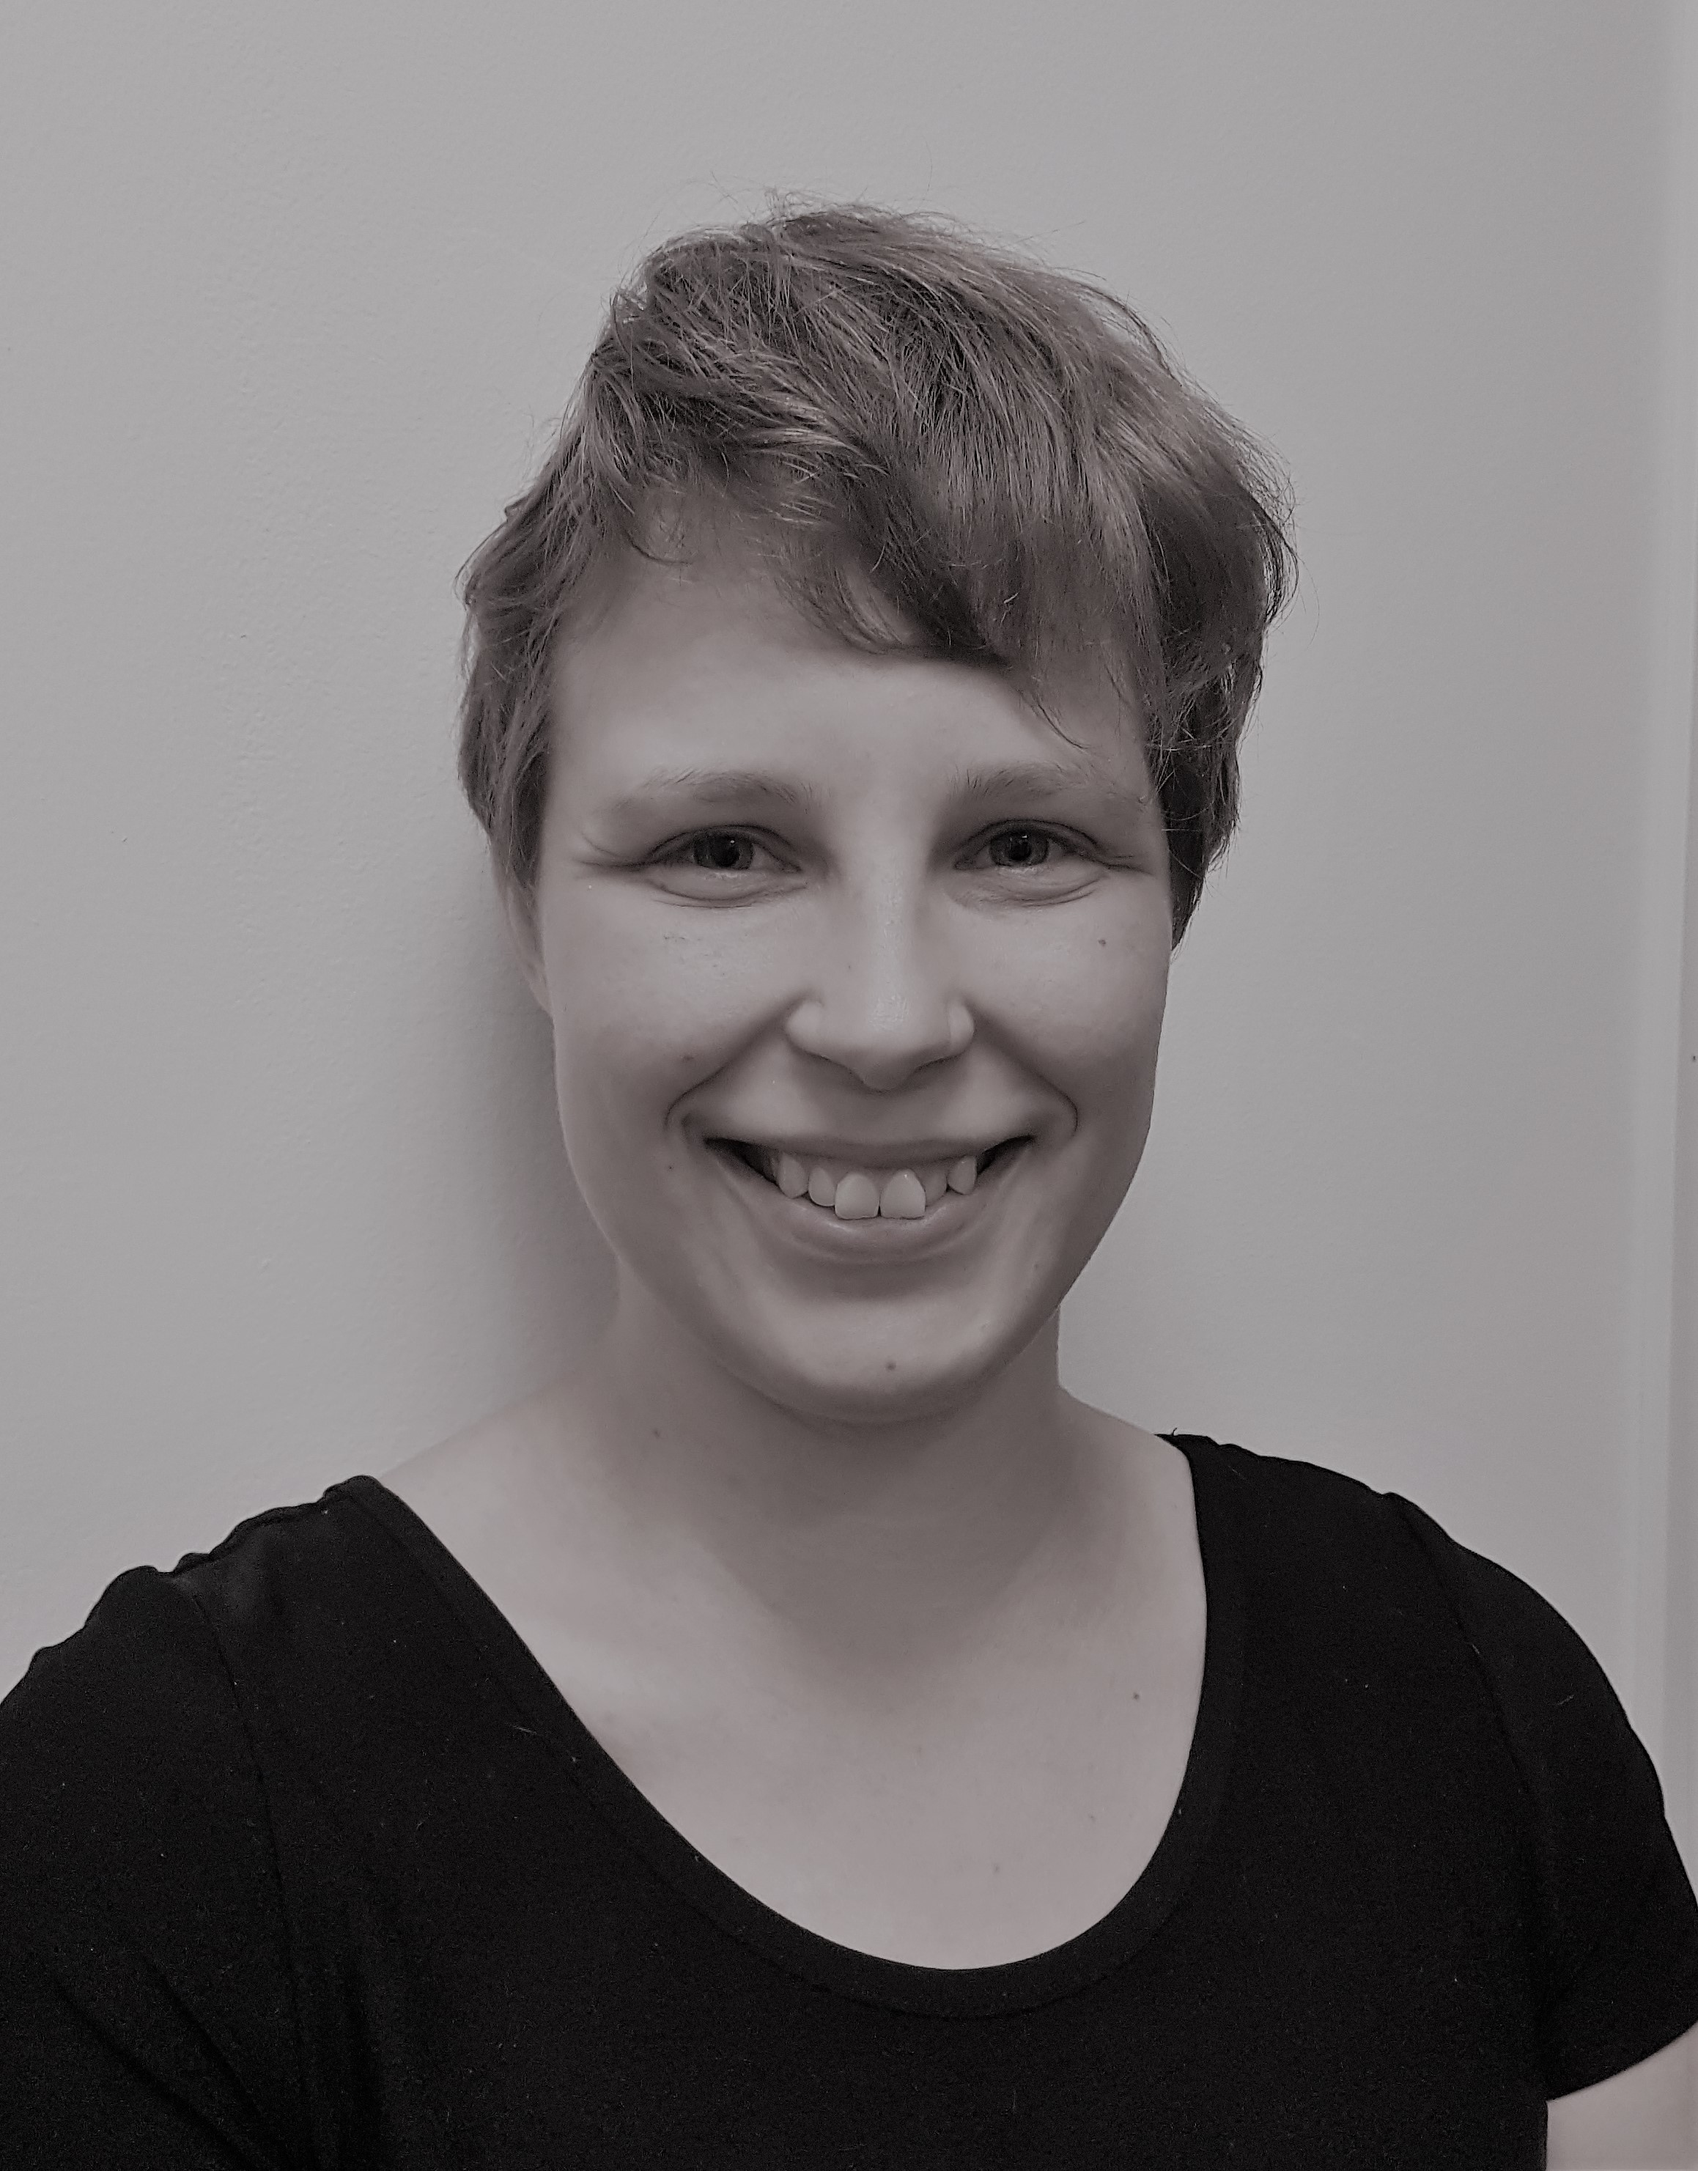
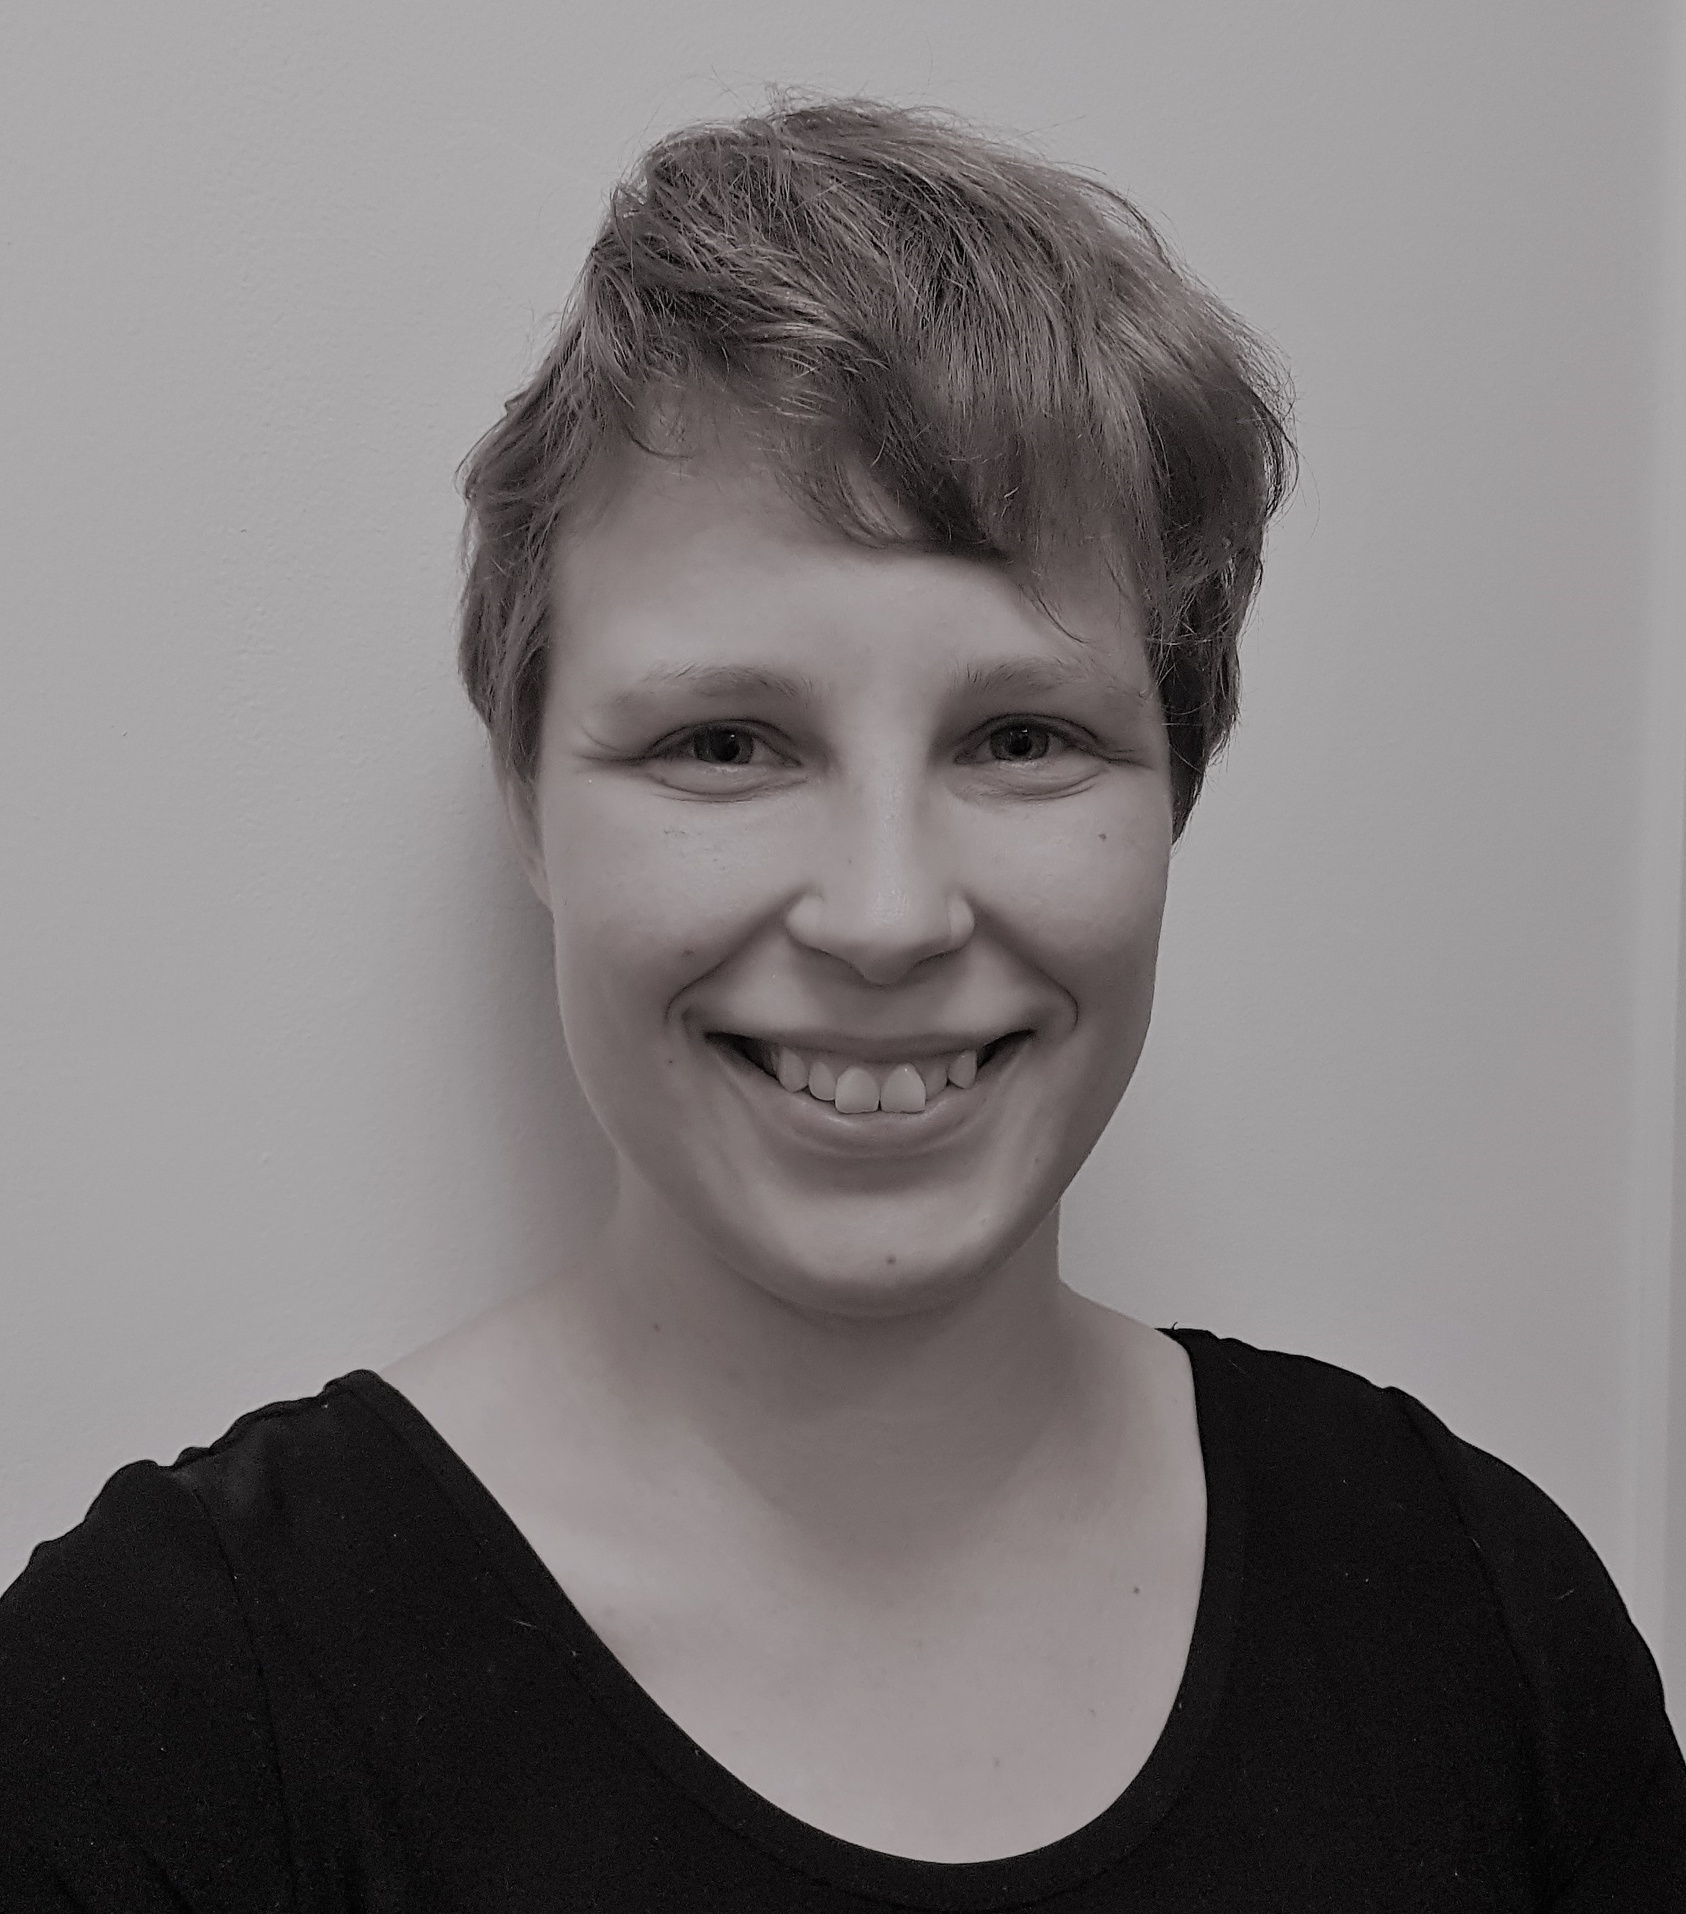
Päivitetty työkokemusta

diff --git a/osaaminen.html b/osaaminen.html
@@ -9,7 +9,7 @@
       <h1>Portfolio <br>Siina <br>Kaakinen</h1>
       <nav>
         <button class="nav_button top_nav"><a class="nav_link" href="./mina.html">Tietoja minusta</a></button>
-        <button class="nav_button hovered_nav"><a class="nav_link" href="./osaaminen.html">Osaaminen</a></button>
+        <button class="nav_button hovered_nav"><a class="nav_link" href="./osaaminen.html">Kokemus</a></button>
         <button class="nav_button"><a class="nav_link" href="./webska.html">Web-sovelluskehitys</a></button>
         <button class="nav_button"><a class="nav_link" href="./muu.html">Muu kokemus</a></button>
       </nav>
@@ -20,26 +20,70 @@
       </div>
     </div>
 
-    <div class="grid-container2">
-      <div class="info1"><h3>Ohjelmointikielet</h3>
-      <p>HTML & CSS <a id="video" href="https://youtu.be/1qlYvXb7XpQ" target="_blank">(video)</a><br>
-        JavaScript <br>
-        C++ <br>
-      C# </p></div>
+    <div class="container3">
+      <h2>Ohjelmointityökokemus</h2>
+      <div class="tyokokemus">
+      <table style="width:100%">
+        <tr>
+          <th>Firma/Projekti</th>
+          <th>Tehtävän kuva/rooli</th>
+        </tr>
+        <tr>
+          <td class="nimitieto">MeLearn-sovellus (projekti)</td>
+          <td>Käyttöliittymäkehittäjä, käyttöliittymäsuunnittelu ja käyttäjätestaus</td>
+        </tr>
+        <tr>
+          <td class="nimitieto">Visma Public Oy</td>
+          <td>Käyttöliittymäkehittäjä</td>
+        </tr>
+        <tr>
+          <td class="nimitieto">Lintukoto-sovellus (projekti)</td>
+          <td>Käyttöliittymäkehittäjä ja tuoteomistajana toimiminen</td>
+        </tr>
+      </table>
+      </div>
+    </div>
+
+    <div class="container3">
+      <h2>Muu työkokemus</h2>
+      <div class="tyokokemus">
+        <table style="width:100%">
+          <tr>
+            <th>Firma/Projekti</th>
+            <th>Tehtävän kuva/rooli</th>
+          </tr>
+          <tr>
+            <td class="nimitieto">Naava</td>
+            <td>Kasvituotannonkehitys, -tutkimus, Global support,<br>kasvihankinta & -laatuvastaava,<br>kasvituotannon esimies & kasvituotantotyöt
+            </td>
+          </tr>
+          <tr>
+            <td class="nimitieto">Työharjoitteluja</td>
+            <td>Maa- ja elintarviketalouden (MTT) <br>
+            Päivin Puska & Pensas <br>
+            Vaajakosken aluekirjasto <br>
+</td>
+          </tr>
+          <tr>
+            <td class="nimitieto">Jakeluporras Oy</td>
+            <td>Mainosten jakaja</td>
+          </tr>
+        </table>
+      </div>
+    </div>
+
+    <div class="grid-container3">
 
       <div class="info2"><h3>Koodauksen kannalta hyvät</h3>
       <p>Versionhallinta (GitHub) <br>
-        Testaus <br>
+        Testauksen perusteet <br>
+        DevOps <br>
         Jira</p></div>
-
-        <div class="info3"><h3>Ketterät menetelmät</h3>
-        <p>Agile <br>
-          Scrum <br>
-          Lean</p></div>
 
         <div class="info4"><h3>Muuta yleishyödyllistä</h3>
         <p>Adoben kuvankäsittelyohjelmien perusteet <br>
           MS Office työkalut <br>
+          Figma <br>
           WordPress <a id="video" href="https://youtu.be/pxjT8ZI8sVA" target="_blank">(video)</a><br></p></div>
 
         <div class="info5"><h3>Taustatyön osalta</h3>
@@ -47,12 +91,6 @@
           AWS-palveluiden perusteet <br>
           ICT-infrastuktuuri <br>
           Eri työasemat</p></div>
-
-        <div class="info6"><h3>Kielitaito</h3>
-        <p>suomi --- äidinkieli <br>
-          englanti --- kiitettävä <br>
-          ruotsi --- tyydyttävä<br>
-          saksa --- alkeet</p></div>
     </div>
 
   </body>

diff --git a/mina.html b/mina.html
@@ -10,7 +10,7 @@
         <h1>Portfolio <br>Siina <br>Kaakinen</h1>
         <nav>
             <button class="nav_button top_nav hovered_nav"><a class="nav_link" href="./mina.html">Tietoja minusta</a></button>
-            <button class="nav_button"><a class="nav_link" href="./osaaminen.html">Osaaminen</a></button>
+            <button class="nav_button"><a class="nav_link" href="./osaaminen.html">Kokemus</a></button>
             <button class="nav_button"><a class="nav_link" href="./webska.html">Web-sovelluskehitys</a></button>
             <button class="nav_button"><a class="nav_link" href="./muu.html">Muu kokemus</a></button>
         </nav>
@@ -26,10 +26,74 @@
             Synt. 19.10.1990 <br>
             Jyväskylä<br><br>
             Tietojenkäsittelyn tradenomiopiskelija <br>
-            Kolmas vuosi<br>
-            Web-sovellus- & käyttöliittymäkehitys<br>
-            Arvioitu valmistuminen joulukuussa 2021</p>
-        <img id="profile" src="./Kuvat/mina.png">
+            Kolmas vuosi <br>
+            Web-sovellus- & käyttöliittymäkehitys <br>
+            Arvioitu valmistuminen joulukuussa 2021 <br>
+            Opinnäytetyö: Svelte ensimmäisenä frontend- teknologiana (val. toukokuu 2021)<br></p>
+        <img id="profile" alt="profiilikuva" src="./Kuvat/mina.jpg">
+    </div>
+
+    <div class="grid-container2">
+        <div class="info1">
+            <h3>Ohjelmointikielet</h3>
+
+            <table style="width:50%">
+                <tr>
+                    <td>JavaScript</td>
+                    <td>☆☆☆</td>
+                </tr>
+                <tr>
+                    <td>TypeScript</td>
+                    <td>☆☆☆</td>
+                </tr>
+                <tr>
+                    <td>C++</td>
+                    <td>☆</td>
+                </tr>
+                <tr>
+                    <td>C#</td>
+                    <td>☆</td>
+                </tr>
+                <tr>
+                    <td>HTML & CSS</td>
+                    <td>☆☆☆☆</td>
+                </tr>
+            </table>
+        </div>
+    
+        <div class="info2">
+            <h3>Frameworkit</h3>
+            <table style="width:50%">
+            <tr>
+                <td>Angular</td>
+                <td>☆☆☆</td>
+            </tr>
+            <tr>
+                <td>React</td>
+                <td>☆</td>
+            </tr>
+            <tr>
+                <td>Svelte</td>
+                <td>☆☆</td>
+            </tr>
+            </table>
+        </div>
+    
+        <div class="info3">
+            <h3>Ketterät menetelmät</h3>
+            <table style="width:50%">
+                <tr>
+                    <td>Agile</td>
+                </tr>
+                <tr>
+                    <td>Scrum</td>
+                </tr>
+                <tr>
+                    <td>Lean</td>
+                </tr>
+            </table>
+        </div>
+
     </div>
 
 </body>

diff --git a/all.css b/all.css
@@ -142,39 +142,12 @@ h1 {
   color: rgb(10, 172, 164);
 }
 
-/*Gridien muotoilut Osaaminen-sivulle*/
-.grid-container2 {
-  display: grid;
-  float: right;
-  grid-template-columns: 40% 40% 40%;
-  grid-template-rows: 50% 50%;
-  grid-gap: 3%;
-  margin-top: 10%;
-  margin-right: 20%;
-}
-
-.grid-container2 > div {
-  background-color: #eef2df;
-  text-align: center;
-  font-size: 25px;
-  border-radius: 10px;
-  font-size: 16px;
-  font-family: Georgia, "Times New Roman", Times, serif;
-  box-shadow: 0 4px 8px 0 rgba(0, 0, 0, 0.2), 0 6px 20px 0 rgba(0, 0, 0, 0.19);
-}
-
-#video {
-  padding: 0;
-  color: rgb(10, 172, 164);
-  font-size: 16px;
-}
-
 /*Omat tiedot-sivu*/
 .container2 {
   background-color: #eef2df;
   width: 60%;
   float: right;
-  margin-top: 10%;
+  margin-top: 5%;
   margin-right: 5%;
   padding: 3%;
   border-radius: 10px 50px;
@@ -187,12 +160,99 @@ h1 {
 }
 
 #profile {
-  width: 20%;
+  width: 200px;
   height: auto;
   float: right;
-  margin-top: -24%;
+  margin-top: -28%;
   margin-right: 10%;
-  border-radius: 3%;
+  border-radius: 50%;
+}
+
+/*Gridien muotoilut Omat tiedot-sivulle*/
+.grid-container2 {
+  display: grid;
+  float: right;
+  grid-template-columns: 50% 50% 50%;
+  grid-template-rows: 100%;
+  grid-gap: 3%;
+  margin-top: 3%;
+  margin-right: 30%;
+  margin-bottom: 10%;
+}
+
+.grid-container2 > div {
+  background-color: #eef2df;
+  text-align: center;
+  font-size: 25px;
+  border-radius: 10px;
+  font-size: 16px;
+  font-family: Georgia, "Times New Roman", Times, serif;
+  box-shadow: 0 4px 8px 0 rgba(0, 0, 0, 0.2), 0 6px 20px 0 rgba(0, 0, 0, 0.19);
+}
+
+table {
+  margin-left: 20%;
+  margin-bottom: 3%;
+}
+
+#video {
+  padding: 0;
+  color: rgb(10, 172, 164);
+  font-size: 16px;
+}
+
+/*Osaamisen sisältö*/
+
+.container3 {
+  background-color: #eef2df;
+  width: 60%;
+  float: right;
+  margin-top: 3%;
+  margin-right: 5%;
+  padding: 3%;
+  border-radius: 10px 50px;
+  box-shadow: 0 4px 8px 0 rgba(0, 0, 0, 0.2), 0 6px 20px 0 rgba(0, 0, 0, 0.19);
+  font-size: 18px;
+}
+
+.container3 > p {
+  margin-left: 3%;
+}
+
+.tyokokemus {
+  margin-left: -20%;
+}
+
+.tyokokemus > th,
+td {
+  text-align: left;
+  padding: 2px;
+  margin-right: -50%;
+}
+
+.nimitieto {
+  border-bottom: solid grey;
+}
+
+.grid-container3 {
+  display: grid;
+  float: right;
+  grid-template-columns: 45% 45% 45%;
+  grid-template-rows: 100%;
+  grid-gap: 3%;
+  margin-top: 3%;
+  margin-right: 23%;
+  margin-bottom: 10%;
+}
+
+.grid-container3 > div {
+  background-color: #eef2df;
+  text-align: center;
+  font-size: 25px;
+  border-radius: 10px;
+  font-size: 16px;
+  font-family: Georgia, "Times New Roman", Times, serif;
+  box-shadow: 0 4px 8px 0 rgba(0, 0, 0, 0.2), 0 6px 20px 0 rgba(0, 0, 0, 0.19);
 }
 
 /*Webska-sivu*/

diff --git a/muu.html b/muu.html
@@ -9,7 +9,7 @@
       <h1>Portfolio <br>Siina <br>Kaakinen</h1>
       <nav>
         <button class="nav_button top_nav"><a class="nav_link" href="./mina.html">Tietoja minusta</a></button>
-        <button class="nav_button"><a class="nav_link" href="./osaaminen.html">Osaaminen</a></button>
+        <button class="nav_button"><a class="nav_link" href="./osaaminen.html">Kokemus</a></button>
         <button class="nav_button"><a class="nav_link" href="./webska.html">Web-sovelluskehitys</a></button>
         <button class="nav_button hovered_nav"><a class="nav_link" href="./muu.html">Muu kokemus</a></button>
       </nav>

diff --git a/webska.html b/webska.html
@@ -9,7 +9,7 @@
       <h1>Portfolio <br>Siina <br>Kaakinen</h1>
       <nav>
         <button class="nav_button top_nav"><a class="nav_link" href="./mina.html">Tietoja minusta</a></button>
-        <button class="nav_button"><a class="nav_link" href="./osaaminen.html">Osaaminen</a></button>
+        <button class="nav_button"><a class="nav_link" href="./osaaminen.html">Kokemus</a></button>
         <button class="nav_button hovered_nav"><a class="nav_link" href="./webska.html">Web-sovelluskehitys</a></button>
         <button class="nav_button"><a class="nav_link" href="./muu.html">Muu kokemus</a></button>
       </nav>
